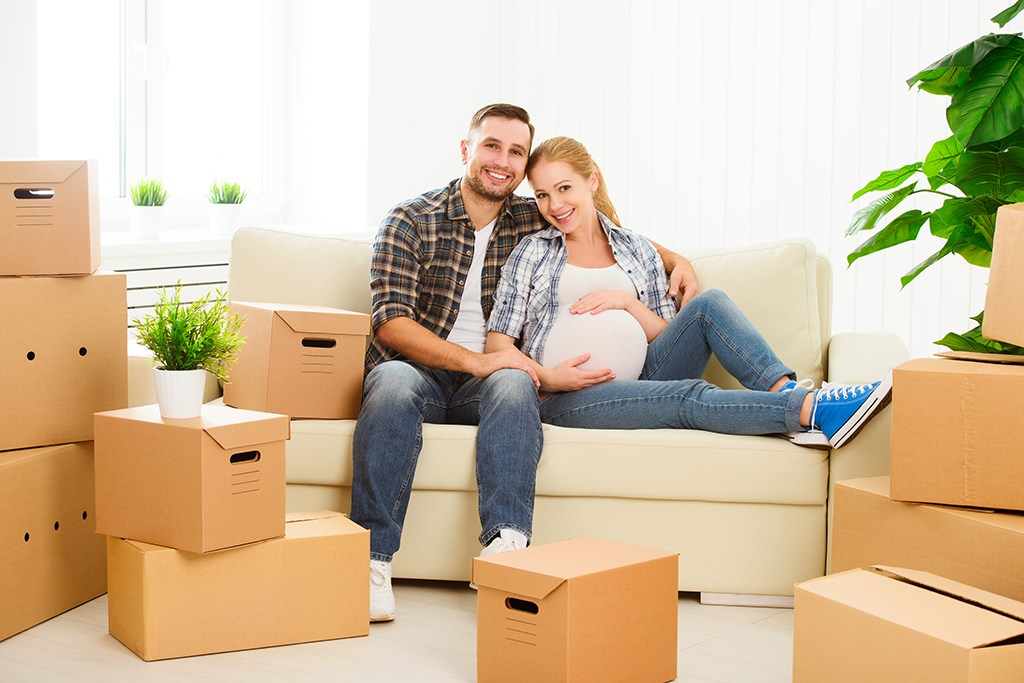
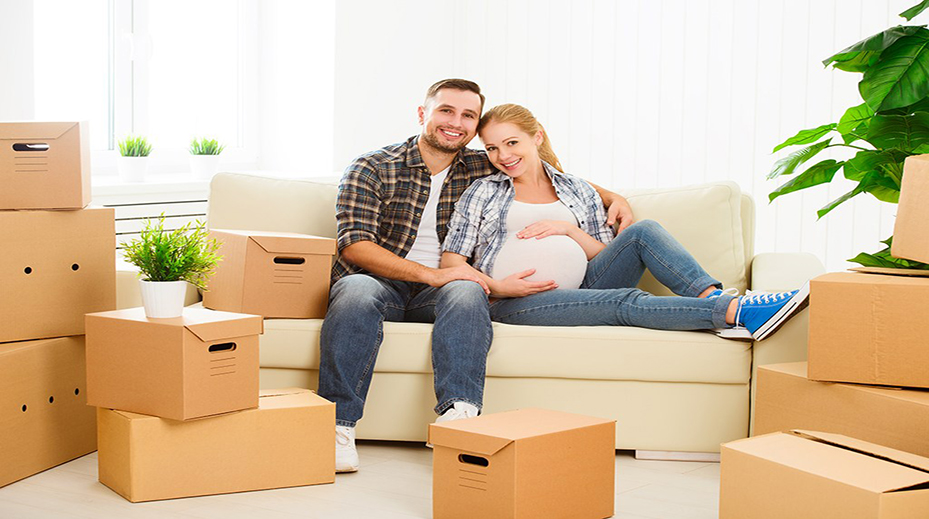
make imgs responsive

diff --git a/src/components/About.js b/src/components/About.js
@@ -1,5 +1,8 @@
 import React, { Component } from 'react';
-//import Header from './layout/Header'
+import aboutus from '../img/about.jpg';
+import img1 from '../img/people1.jpg';
+import img2 from '../img/people1.jpg';
+import img3 from '../img/people1.jpg';
 
 class About extends Component {
   render() {
@@ -26,9 +29,9 @@ class About extends Component {
           <div className="row">
             <div className="col-md-4">
               <div className="move-card-item mb-4">
-                <div className="move-img1 img-fluid" />
+                <img className="img-fluid" src={img1} />
                 <div className="move-item">
-                  <h5>Air Delivery</h5>
+                  <h5>Trust</h5>
                   <p className="card-text">
                     Lorem ipsum dolor sit amet, consectetur adipiscing elit, sed
                     do eiusmod tempor incididunt ut labore et dolore magna
@@ -40,9 +43,9 @@ class About extends Component {
 
             <div className="col-md-4">
               <div className="move-card-item mb-4">
-                <div className="move-img2 img-fluid" />
+                <img className="img-fluid" src={img2} />
                 <div className="move-item">
-                  <h5>Ground Shipping</h5>
+                  <h5>Punctual</h5>
                   <p className="card-text">
                     Lorem ipsum dolor sit amet, consectetur adipiscing elit, sed
                     do eiusmod tempor incididunt ut labore et dolore magna
@@ -54,9 +57,9 @@ class About extends Component {
 
             <div className="col-md-4">
               <div className="move-card-item mb-4">
-                <div className="move-img3 img-fluid" />
+                <img className="img-fluid" src={img3} />
                 <div className="move-item">
-                  <h5>Sea Delivery</h5>
+                  <h5>Customer Focus</h5>
                   <p className="card-text">
                     Lorem ipsum dolor sit amet, consectetur adipiscing elit, sed
                     do eiusmod tempor incididunt ut labore et dolore magna

diff --git a/src/components/Service.js b/src/components/Service.js
@@ -1,5 +1,8 @@
 import React, { Component } from 'react';
-//import Header from './layout/Header'
+
+import img1 from '../img/img1.jpg';
+import img2 from '../img/img2.jpg';
+import img3 from '../img/img3.jpg';
 
 class Service extends Component {
   render() {
@@ -35,7 +38,7 @@ class Service extends Component {
               <div className="row">
                 <div className="col-md-4">
                   <div className="move-card-item mb-4">
-                    <div className="move-img1 img-fluid" />
+                    <img className="img-fluid" src={img1} />
                     <div className="move-item">
                       <h5>Air Delivery</h5>
                       <p className="card-text">
@@ -49,7 +52,7 @@ class Service extends Component {
 
                 <div className="col-md-4">
                   <div className="move-card-item mb-4">
-                    <div className="move-img2 img-fluid" />
+                    <img className="img-fluid" src={img2} />
                     <div className="move-item">
                       <h5>Ground Shipping</h5>
                       <p className="card-text">
@@ -63,7 +66,7 @@ class Service extends Component {
 
                 <div className="col-md-4">
                   <div className="move-card-item mb-4">
-                    <div className="move-img3 img-fluid" />
+                    <img className="img-fluid" src={img3} />
                     <div className="move-item">
                       <h5>Sea Delivery</h5>
                       <p className="card-text">

diff --git a/src/components/Home.js b/src/components/Home.js
@@ -1,4 +1,7 @@
 import React, { Component } from 'react';
+import slide1 from '../img/slide1.png';
+import slide2 from '../img/slide2.jpg';
+import slide3 from '../img/slide4.jpg';
 
 class Home extends Component {
   render() {
@@ -11,7 +14,7 @@ class Home extends Component {
         >
           <div className="carousel-inner">
             <div className="carousel-item active">
-              <div className="img-fluid slide1" />
+              <img className="img-fluid slide-img" src={slide1} />
               <div class="carousel-caption d-none d-md-block">
                 <p className="move-txt-slide1">Moving Without Borders</p>
                 <p className="move-txt-slide1s">7 Days | 24 Hours</p>
@@ -19,14 +22,14 @@ class Home extends Component {
             </div>
 
             <div className="carousel-item">
-              <div className="img-fluid slide2" />
+              <img className="img-fluid slide-img" src={slide2} />
               <div class="carousel-caption d-none d-md-block ">
                 <p className="move-txt-slide2"> We'll do all the hard work</p>
               </div>
             </div>
 
             <div className="carousel-item">
-              <div className="img-fluid slide3" />
+              <img className="img-fluid slide-img" src={slide3} />
               <div class="carousel-caption d-none d-md-block">
                 <p className="move-txt-slide3">Save Time and Money</p>
               </div>

diff --git a/src/App.css b/src/App.css
@@ -3,10 +3,7 @@ body {
 }
 
 .move-logo {
-  background-image: url('./img/Big_Move.jpg');
-  background-size: cover;
-  width: 30%;
-  height: 70px;
+  max-width: 30%;
 }
 
 .move-nav-toggler {
@@ -65,28 +62,9 @@ body {
   font-style: italic;
 }
 
-.slide1 {
-  background-image: url('./img/slide1.png');
-  background-size: cover;
+.slide-img {
   width: 100%;
-  height: 700px;
 }
-
-.slide2 {
-  background-image: url('./img/slide2.jpg');
-  background-size: cover;
-  width: 100%;
-  height: 700px;
-}
-
-.slide3 {
-  background-image: url('./img/slide4.jpg');
-  background-size: cover;
-  width: 100%;
-  height: 700px;
-}
-
-/*  */
 
 .move-font-lalezar-white {
   font-family: 'Lalezar', cursive;
@@ -155,29 +133,6 @@ body {
   background-color: #fff;
   background-clip: border-box;
   border: 0;
-}
-
-.move-img1 {
-  background-image: url('./img/img1.jpg');
-  background-size: cover;
-  height: 175px;
-  width: 100%;
-  display: block;
-}
-.move-img2 {
-  background-image: url('./img/img2.jpg');
-  background-size: cover;
-  height: 175px;
-  width: 100%;
-  display: block;
-}
-
-.move-img3 {
-  background-image: url('./img/img3.jpg');
-  background-size: cover;
-  height: 175px;
-  width: 100%;
-  display: block;
 }
 
 /* footer section */

diff --git a/src/App.js b/src/App.js
@@ -7,6 +7,7 @@ import Service from './components/Service';
 import About from './components/About';
 
 import './App.css';
+import logo from './img/Big_Move.jpg';
 
 class App extends Component {
   render() {
@@ -17,7 +18,7 @@ class App extends Component {
 
           <nav class="navbar sticky-top navbar-expand-sm navbar-dark move-head mb-3">
             <div class="container">
-              <div class="move-logo img-fluid" />
+              <img class="img-fluid move-logo" src={logo} />
 
               <p
                 class="navbar-toggler move-nav-toggler"
